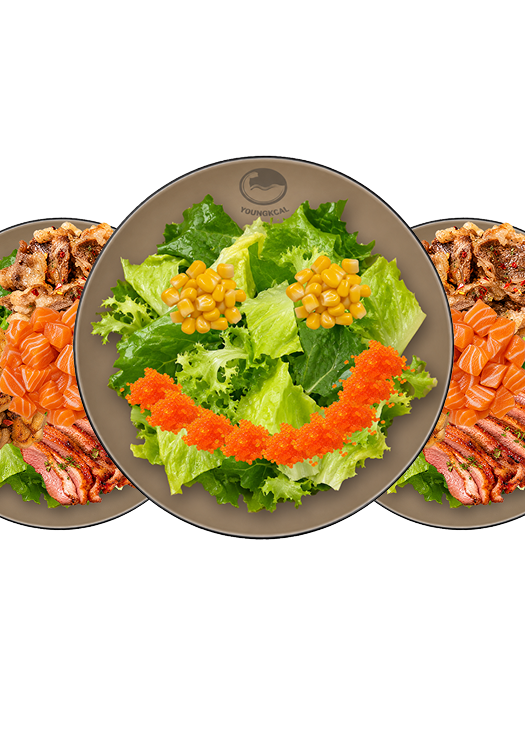
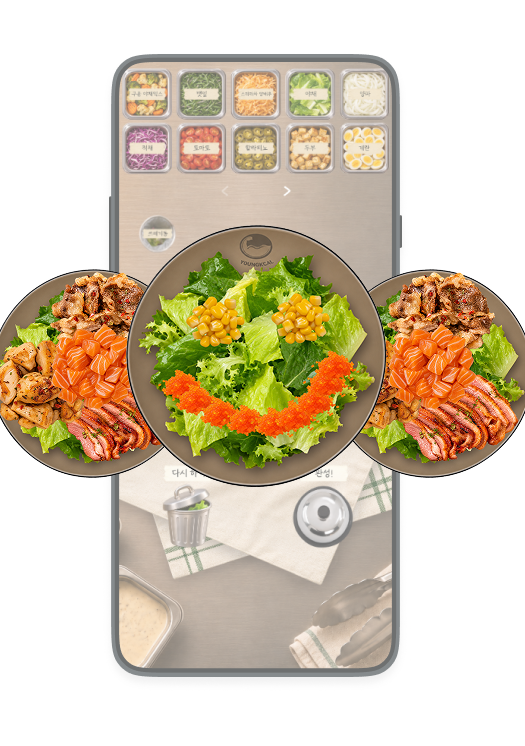
수능 이벤트 추가

diff --git a/categories/design/projects/exam-promotion/index.html b/categories/design/projects/exam-promotion/index.html
@@ -3,21 +3,169 @@
   <head>
     <meta charset="UTF-8" />
     <meta name="viewport" content="width=device-width, initial-scale=1.0" />
-    <title>수능 할인 이벤트 — Design</title>
-    <link rel="stylesheet" href="../../../common-style.css" />
+    <title>수고했팩 — Design</title>
+    <link rel="stylesheet" href="../design-project.css" />
   </head>
   <body>
     <header class="site-header">
-      <a class="logo" href="../../../../index.html">MJ</a
-      ><a class="back-link" href="../../index.html">← Design</a>
+      <a class="logo" href="../../../../index.html">MJ</a>
+      <a class="back-link" href="../../index.html">← Design</a>
     </header>
-    <main class="category-page">
-      <section class="category-hero">
-        <p class="eyebrow">Promotion Design</p>
-        <h1>수능 할인 이벤트</h1>
-        <p>프로젝트 상세 내용 준비 중입니다.</p>
-      </section>
-      <!-- 상세 콘텐츠 추가 위치 -->
+
+    <main class="category-page project-detail">
+      <div class="project-content">
+        <section class="project-intro">
+          <p class="project-tagline">수험생 여러분! 고생하셨습니다!</p>
+          <h1 class="project-title">수고했팩 — 수험생 할인 프로모션</h1>
+          <dl class="project-meta">
+            <dt>프로젝트 기간</dt>
+            <dd>2026.11</dd>
+            <dt>역할</dt>
+            <dd>
+              프로모션 기획 · 네이밍 · 카피라이팅 · AI 이미지 제작 ·
+              이미지 합성 및 보정 · 포스터 디자인
+            </dd>
+          </dl>
+        </section>
+
+        <section class="project-section">
+          <div class="project-text">
+            <h3 class="project-subtitle">Project Overview</h3>
+            <p>
+              수능을 마친 수험생들을 응원하고, 건강한 식단에 대한 관심을
+              브랜드 경험으로 연결하기 위해 수험생 할인 프로모션을
+              기획했습니다.
+            </p>
+            <p>
+              포케 또는 도시락에 카사바칩과 제로 사이다를 더한 세트 메뉴를
+              구성하고, 단순한 가격 할인에서 벗어나
+              <strong>수험생에 대한 응원과 브랜드의 건강한 이미지를 함께 전달</strong>하고자
+              했습니다.
+            </p>
+          </div>
+
+          <div class="project-text">
+            <h3 class="project-subtitle">Naming &amp; Copywriting</h3>
+            <p>
+              수험생에게 전하는 응원의 메시지인 '수고했어'와 세트 메뉴를
+              의미하는 '팩(Pack)'을 결합해
+              <strong>‘수고했팩’이라는 프로모션 네이밍</strong>을
+              제작했습니다.
+            </p>
+            <p>
+              할인 혜택만을 강조하기보다 수험생들이 공감할 수 있는 메시지를
+              중심으로 구성했으며, 짧고 친근한 어감을 통해
+              <strong>프로모션의 목적과 이름을 쉽게 기억할 수 있도록</strong>
+              기획했습니다.
+            </p>
+          </div>
+        </section>
+
+        <section class="project-section">
+          <div class="project-text">
+            <h3 class="project-subtitle">Design Concept ①</h3>
+            <p>
+              수능을 마친 수험생들의 해방감과 새로운 시작을 표현하기 위해
+              <strong>밝고 경쾌한 컬러와 대담한 타이포그래피</strong>를
+              활용했습니다.
+            </p>
+            <p>
+              도시락 세트는 코랄 핑크, 포케 세트는 스카이 블루를 배경으로
+              사용해 각 메뉴를 시각적으로 구분했습니다.<br />
+              동일한 레이아웃과 타이포그래피를 적용하여
+              <strong>하나의 프로모션으로서 시각적 통일성</strong>을
+              유지했습니다.
+            </p>
+            <p>
+              화면 상단에는 프로모션 타이틀과 할인 가격을 크게 배치하고,
+              하단에는 세트 메뉴의 이미지를 풍성하게 구성했습니다.<br />
+              기존 가격과 할인 가격의 크기 및 대비를 통해
+              <strong>세트 구성과 가격 혜택을 직관적으로 전달</strong>하도록
+              디자인했습니다.
+            </p>
+          </div>
+
+          <div class="project-text">
+            <h3 class="project-subtitle">Design Process</h3>
+            <p>
+              실제 메뉴 이미지를 기반으로 AI를 활용해 배경과 소품,
+              조명 및 그림자를 제작했습니다.<br />
+              각각의 제품 이미지를 하나의 공간에 자연스럽게 합성하고,
+              색감과 명암을 보정하여
+              <strong>실제 스튜디오에서 촬영한 듯한 푸드 비주얼</strong>을
+              완성했습니다.
+            </p>
+            <p>
+              텀블러와 운동 소품 등을 활용하여 단순한 음식 광고를 넘어
+              영칼로리포케가 지향하는
+              <strong>건강하고 활동적인 라이프스타일</strong>을 표현했습니다.
+            </p>
+          </div>
+        </section>
+
+        <img
+          class="project-image"
+          src="./images/sugo-pack-2.png"
+          alt="도시락 및 포케 수고했팩 프로모션 포스터"
+        />
+
+        <section class="project-section">
+          <div class="project-text">
+            <h3 class="project-subtitle">Design Concept ②</h3>
+            <p>
+              수험생 할인이라는 프로모션의 특성을 살려
+              <strong>수능 시험지 형식을 활용한 콘텐츠</strong>를
+              추가로 제작했습니다.
+            </p>
+            <p>
+              일반적인 할인 안내 방식에서 벗어나 세트 메뉴의 구성과 가격을
+              객관식 문제로 표현했습니다.<br />
+              수험생에게 익숙한 시험지 레이아웃과 수험번호, 채점 표시,
+              연필과 지우개 등의 요소를 활용하여
+              <strong>공감과 재미를 유도하는 시각적 경험</strong>을
+              구성했습니다.
+            </p>
+            <p>
+              소비자가 문제를 읽고 정답을 확인하는 과정에서 자연스럽게
+              할인 가격과 세트 구성을 인식하도록 설계했습니다.<br />
+              단순한 정보 전달을 넘어
+              <strong>수험생이라는 타깃의 경험을 콘텐츠에 반영</strong>하여
+              프로모션의 차별성을 높이고자 했습니다.
+            </p>
+          </div>
+        </section>
+
+        <img
+          class="project-image"
+          src="./images/sugo-pack-3.png"
+          alt="수능 시험지 콘셉트의 수험생 할인 이벤트 디자인"
+        />
+
+        <section class="project-section">
+          <div class="project-text">
+            <h3 class="project-subtitle">Project Value</h3>
+            <p>
+              시즌에 맞춘 프로모션 기획부터 네이밍, AI 이미지 제작,
+              포스터 디자인까지 일관된 메시지로 연결한 프로젝트입니다.
+            </p>
+            <p>
+              <strong>Seasonal Marketing + Visual Design + Entertainment</strong><br />
+              가격 혜택뿐만 아니라 타깃에 대한 공감과 재미를 더해,
+              고객이 브랜드를 긍정적으로 기억할 수 있는 프로모션을
+              기획했습니다.
+            </p>
+          </div>
+        </section>
+      </div>
     </main>
+
+    <button
+      class="top-button"
+      type="button"
+      aria-label="맨 위로 이동"
+      onclick="window.scrollTo({ top: 0, behavior: 'smooth' })"
+    >
+      ↑
+    </button>
   </body>
 </html>

diff --git a/categories/design/index.html b/categories/design/index.html
@@ -80,7 +80,7 @@
           <div class="design-group-heading">
             <span>02</span>
             <h2 id="design-group-2">Packaging Design</h2>
-            <span class="design-count">03 Projects</span>
+            <span class="design-count">02 Projects</span>
           </div>
           <div class="design-grid">
             <a
